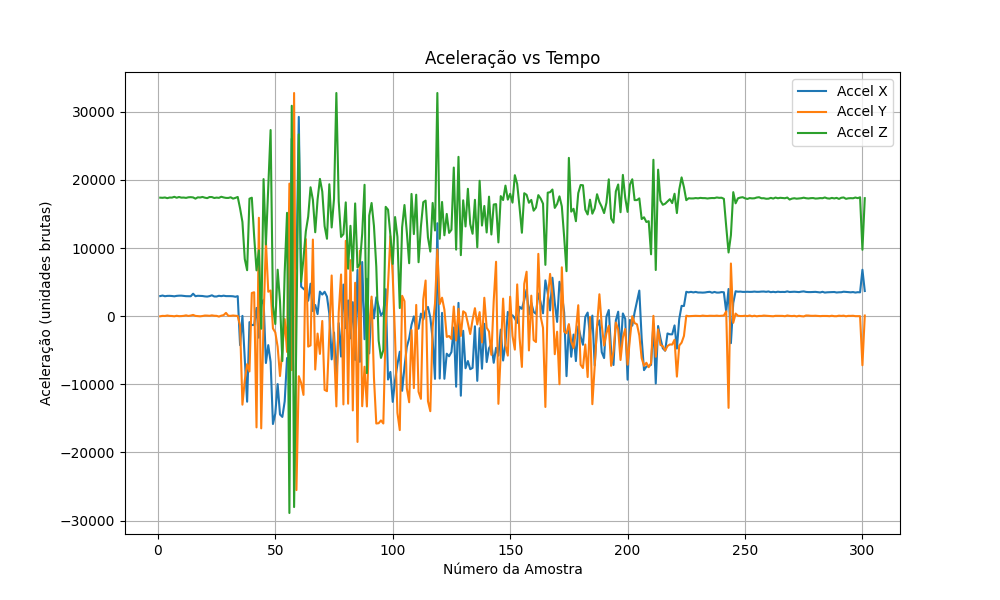
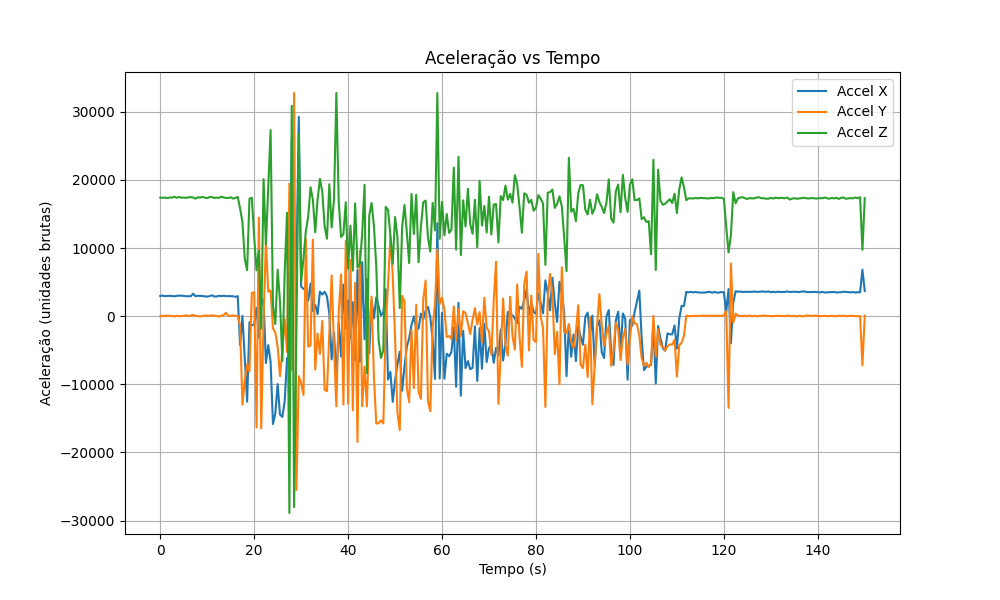
comentarios e correcao

diff --git a/datalogger.c b/datalogger.c
@@ -25,27 +25,33 @@
 #include "font.h"
 
 
-bool mount = false;
-bool read = false;
-#define botaoB 6
-#define botaoA 5
 
-#define LED_PIN_GREEN 11
-#define LED_PIN_BLUE 12
-#define LED_PIN_RED 13
-#define BUZZER_A 21
+// Variáveis globais de estado
+bool mount = false; // Indica se o cartão SD está montado
+bool read = false;  // Indica se está em modo de gravação
+
+// Definições dos pinos dos botões
+#define botaoB 6 // Botão B: inicia/para gravação
+#define botaoA 5 // Botão A: monta/desmonta SD
+
+// Definições dos pinos dos LEDs e buzzer
+#define LED_PIN_GREEN 11 // LED verde: pronto
+#define LED_PIN_BLUE 12  // LED azul: acesso SD
+#define LED_PIN_RED 13   // LED vermelho: erro/estado
+#define BUZZER_A 21      // Buzzer
 
  
-// MPU6050 I2C address
-#define I2C_PORT i2c0               // i2c0 pinos 0 e 1, i2c1 pinos 2 e 3
-#define I2C_SDA 0                   // 0 ou 2
-#define I2C_SCL 1                  // 1 ou 3
-#define I2C_PORT_DISP i2c1
-#define I2C_SDA_DISP 14
-#define I2C_SCL_DISP 15
-#define ENDERECO_DISP 0x3C
-#define DISP_W 128
-#define DISP_H 64
+
+// Definições de I2C para sensores e display
+#define I2C_PORT i2c0               // I2C0: pinos 0 e 1 (MPU6050)
+#define I2C_SDA 0                   // SDA do MPU6050
+#define I2C_SCL 1                   // SCL do MPU6050
+#define I2C_PORT_DISP i2c1          // I2C1: pinos 14 e 15 (Display OLED)
+#define I2C_SDA_DISP 14             // SDA do display
+#define I2C_SCL_DISP 15             // SCL do display
+#define ENDERECO_DISP 0x3C          // Endereço I2C do display SSD1306
+#define DISP_W 128                  // Largura do display
+#define DISP_H 64                   // Altura do display
 
  
  // O endereço padrao deste IMU é o 0x68
@@ -126,6 +132,7 @@ void gpio_irq_handler(uint gpio, uint32_t events)
     if (gpio == botaoB)
     {
         static absolute_time_t ultimo_acionamentoB = 0;
+        // Debounce: só aceita novo comando após 300ms
         if (absolute_time_diff_us(ultimo_acionamentoB, agora) > 300000) {
             if (read){
                 printf("Parando leitura\n");
@@ -138,6 +145,7 @@ void gpio_irq_handler(uint gpio, uint32_t events)
         }
     } else if (!read){
         static absolute_time_t ultimo_acionamentoA = 0;
+        // Debounce: só aceita novo comando após 300ms
         if (absolute_time_diff_us(ultimo_acionamentoA, agora) > 300000) {
             if (mount){
                 printf("Desmontando cartão\n");
@@ -153,6 +161,7 @@ void gpio_irq_handler(uint gpio, uint32_t events)
 
 int main()
 {
+    // Inicialização dos botões e interrupções
     gpio_init(botaoB);
     gpio_set_dir(botaoB, GPIO_IN);
     gpio_pull_up(botaoB);
@@ -162,25 +171,20 @@ int main()
     gpio_set_dir(botaoA, GPIO_IN);
     gpio_pull_up(botaoA);
     gpio_set_irq_enabled_with_callback(botaoA, GPIO_IRQ_EDGE_FALL, true, &gpio_irq_handler);
-   
 
-    // Configuração dos LEDs
+    // Inicialização dos LEDs
     gpio_init(LED_PIN_GREEN);
     gpio_set_dir(LED_PIN_GREEN, GPIO_OUT);
     gpio_init(LED_PIN_BLUE);
     gpio_set_dir(LED_PIN_BLUE, GPIO_OUT);
     gpio_init(LED_PIN_RED);
     gpio_set_dir(LED_PIN_RED, GPIO_OUT);
-    
 
-
-
-
+    // Inicialização da UART/USB
     stdio_init_all();
     sleep_ms(5000);
 
-
-
+    // Inicialização do display OLED
     i2c_init(I2C_PORT_DISP, 400 * 1000);
     gpio_set_function(I2C_SDA_DISP, GPIO_FUNC_I2C);
     gpio_set_function(I2C_SCL_DISP, GPIO_FUNC_I2C);
@@ -192,15 +196,15 @@ int main()
     ssd1306_config(&ssd);
     ssd1306_send_data(&ssd);
 
+    // Mensagem inicial no display
     ssd1306_fill(&ssd, false);
-    // Borda do display
     ssd1306_rect(&ssd, 3, 3, 122, 58, true, false);
     ssd1306_draw_string(&ssd, "Inicializando", 10, 6);
     ssd1306_send_data(&ssd);
-    // LED amarelo (verde+vermelho)
-                gpio_put(LED_PIN_GREEN, true);
-                gpio_put(LED_PIN_BLUE, false);
-                gpio_put(LED_PIN_RED, true);
+    // LED amarelo (verde+vermelho) indica inicialização
+    gpio_put(LED_PIN_GREEN, true);
+    gpio_put(LED_PIN_BLUE, false);
+    gpio_put(LED_PIN_RED, true);
 
 
 
@@ -228,17 +232,16 @@ int main()
     sleep_ms(5000);
     time_init();
 
-    FIL file;
-    FRESULT res;
-    UINT bw;
 
-    bool last_mount = false;
-    static uint numero_amostra = 1;
-    static bool azul = false;
+
+    // Variáveis de controle de estado
+    bool last_mount = false;      // Estado anterior da montagem
+    static uint numero_amostra = 1; // Contador de amostras
+    static bool azul = false;        // Estado do LED azul
+
+    // Loop principal
     while (1) {
-       
-
-        // Feedback visual/sonoro para montagem/desmontagem
+        // Feedback visual/sonoro para montagem/desmontagem do SD
         if (mount != last_mount) {
             if (mount) {
                 printf("Montando cartão\n");
@@ -265,14 +268,15 @@ int main()
             last_mount = mount;
         }
 
-        
-        // Gravação de dados
+        // Gravação de dados do IMU
         static bool was_read = false;
         if (mount && read) {
+            // Lê dados do sensor
             mpu6050_read_raw(acceleration, gyro, &temp);
             char amostra_str[10];
             snprintf(amostra_str, sizeof(amostra_str), "%d", numero_amostra);
 
+            // Atualiza display: status de gravação
             ssd1306_fill(&ssd, false);
             ssd1306_rect(&ssd, 3, 3, 122, 58, true, false);
             ssd1306_draw_string(&ssd, "Gravando...", 10, 6);
@@ -280,16 +284,17 @@ int main()
             ssd1306_draw_string(&ssd, amostra_str, 75, 20);
             ssd1306_send_data(&ssd);
 
-            // LED azul piscando (acesso SD)
+            // LED azul piscando indica acesso ao SD
             azul = !azul;
             gpio_put(LED_PIN_GREEN, false);
             gpio_put(LED_PIN_RED, false);
             gpio_put(LED_PIN_BLUE, azul);
 
+            // Salva dados no arquivo CSV
             bool ok = save_imu_data_to_csv(numero_amostra++, acceleration[0], acceleration[1], acceleration[2],
                                 gyro[0], gyro[1], gyro[2]);
             if (!ok) {
-                // LED roxo piscando para erro (vermelho+azul)
+                // LED roxo piscando indica erro de gravação
                 for (int i = 0; i < 3; i++) {
                     gpio_put(LED_PIN_RED, true);
                     gpio_put(LED_PIN_BLUE, true);
@@ -298,6 +303,7 @@ int main()
                     gpio_put(LED_PIN_BLUE, false);
                     sleep_ms(150);
                 }
+                // Mensagem de erro no display
                 ssd1306_fill(&ssd, false);
                 ssd1306_rect(&ssd, 3, 3, 122, 58, true, false);
                 ssd1306_draw_string(&ssd, "ERRO!", 10, 20);
@@ -315,7 +321,7 @@ int main()
                 sleep_ms(300);
                 was_read = false;
             }
-            // Pronto para gravar
+            // Pronto para gravar: LED verde e display aguardando
             gpio_put(LED_PIN_GREEN, true);
             gpio_put(LED_PIN_BLUE, false);
             gpio_put(LED_PIN_RED, false);
@@ -325,7 +331,7 @@ int main()
             ssd1306_draw_string(&ssd, "Aguardando", 10, 6);
             ssd1306_send_data(&ssd);
         } else {
-            // Sistema parado/desmontado
+            // Sistema parado/desmontado: LEDs e display desligados
             gpio_put(LED_PIN_GREEN, false);
             gpio_put(LED_PIN_BLUE, false);
             gpio_put(LED_PIN_RED, false);
@@ -336,7 +342,7 @@ int main()
             was_read = false;
         }
 
-        sleep_ms(500);
+        sleep_ms(500); // Intervalo entre leituras (500ms)
     }
     return 0;
- }
+}

diff --git a/ArquivosDados/PlotaDados.py b/ArquivosDados/PlotaDados.py
@@ -4,8 +4,9 @@ import matplotlib.pyplot as plt
 # Lê o arquivo CSV, ignorando o cabeçalho
 data = np.loadtxt('imu_data.csv', delimiter=',', skiprows=1)
 
+
 # Extrai colunas
-tempo = data[:, 0]
+amostra = data[:, 0]
 accel_x = data[:, 1]
 accel_y = data[:, 2]
 accel_z = data[:, 3]
@@ -13,13 +14,16 @@ giro_x = data[:, 4]
 giro_y = data[:, 5]
 giro_z = data[:, 6]
 
+# Calcula o tempo em segundos (cada amostra = 0.5s)
+tempo = (amostra - amostra[0]) * 0.5
+
 # Gráfico dos dados de aceleração
 plt.figure(figsize=(10, 6))
 plt.plot(tempo, accel_x, label='Accel X')
 plt.plot(tempo, accel_y, label='Accel Y')
 plt.plot(tempo, accel_z, label='Accel Z')
 plt.title('Aceleração vs Tempo')
-plt.xlabel('Número da Amostra')
+plt.xlabel('Tempo (s)')
 plt.ylabel('Aceleração (unidades brutas)')
 plt.legend()
 plt.grid(True)
@@ -32,7 +36,7 @@ plt.plot(tempo, giro_x, label='Giro X')
 plt.plot(tempo, giro_y, label='Giro Y')
 plt.plot(tempo, giro_z, label='Giro Z')
 plt.title('Giroscópio vs Tempo')
-plt.xlabel('Número da Amostra')
+plt.xlabel('Tempo (s)')
 plt.ylabel('Velocidade Angular (unidades brutas)')
 plt.legend()
 plt.grid(True)
